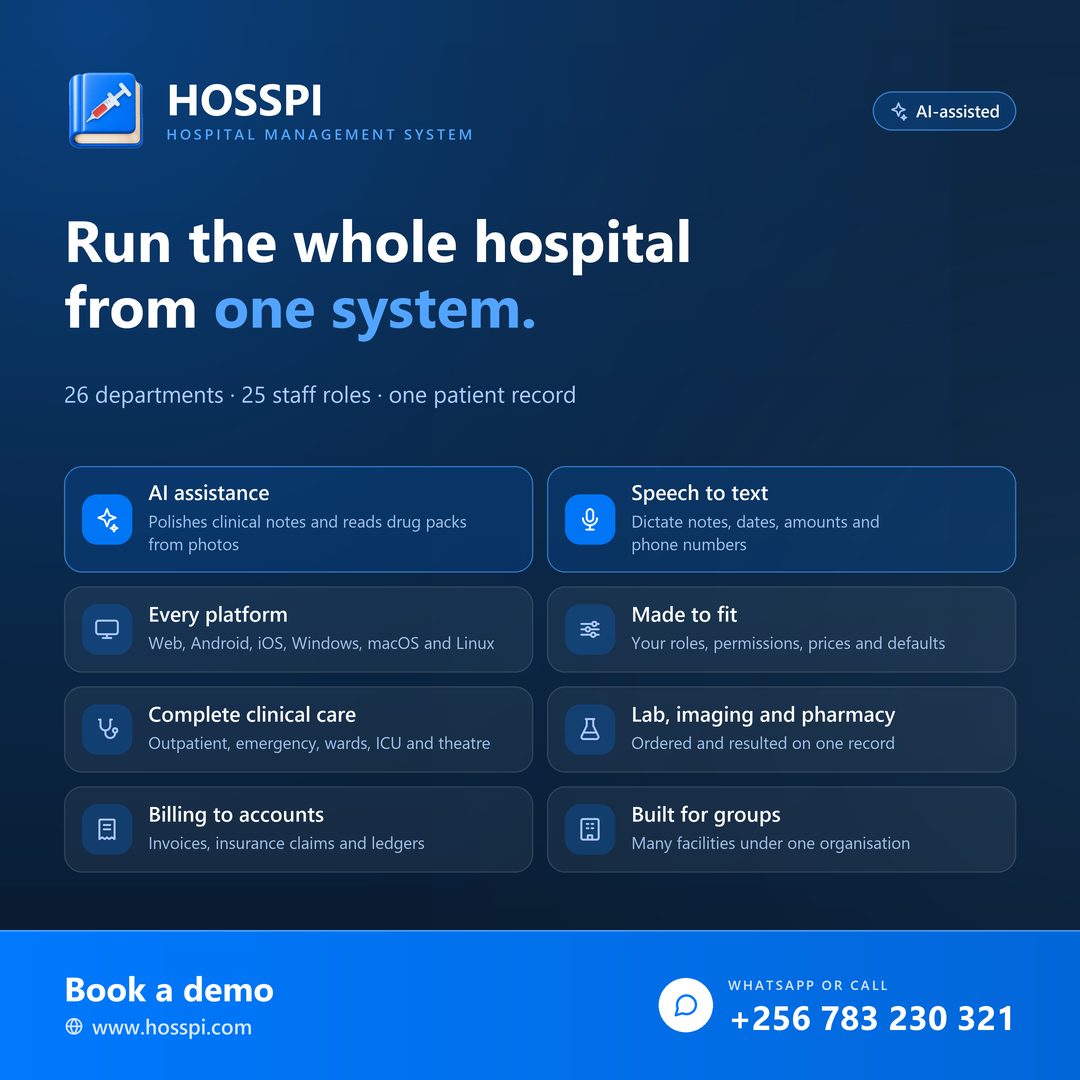
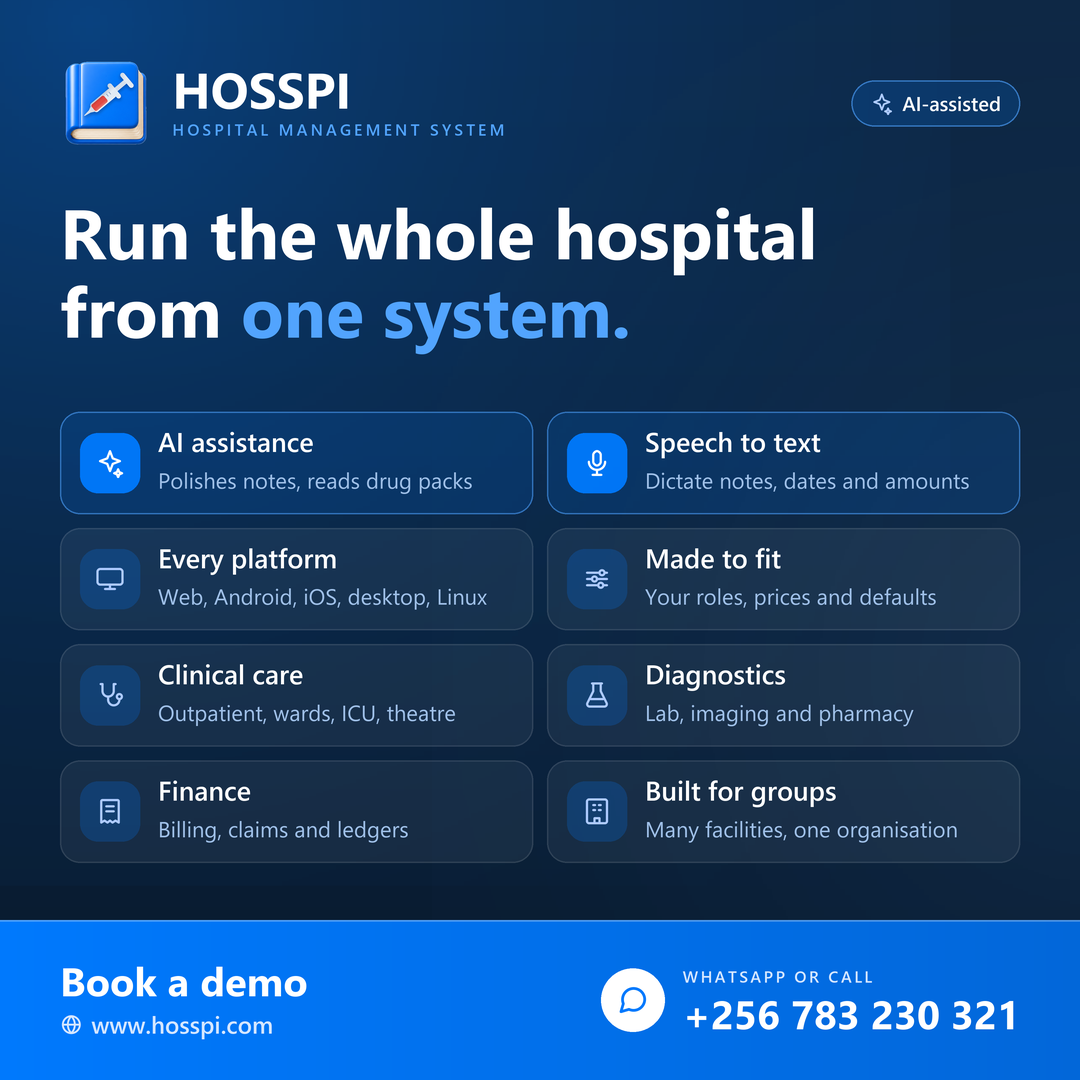
Enhance advert generation script and update assets
- Updated `build-advert.py` to generate adverts for multiple contact numbers, producing both square and portrait PNGs for WhatsApp.
- Improved layout measurements for even spacing and added a minimum gap specification to prevent text overlap.
- Revised feature card descriptions for clarity and conciseness.
- Added new PNG files for the contact number `+256 709 932 926` and updated existing images.
- Enhanced README.md to reflect changes in advert generation and layout specifications.

These updates streamline the advert creation process and improve the overall quality of generated assets.

diff --git a/adverts/build-advert.py b/adverts/build-advert.py
@@ -4,8 +4,9 @@ Build the HOSSPI WhatsApp adverts.
 
     python adverts/build-advert.py
 
-Renders two PNGs from one design: a 1080x1080 square for chats, groups and
-broadcast lists, and a 1080x1920 portrait for WhatsApp Status and stories.
+Renders one design at two sizes - a 1080x1080 square for chats, groups and
+broadcast lists, and a 1080x1920 portrait for WhatsApp Status and stories -
+once for every contact number in PHONES.
 
 The advert reads the product rather than restating it. The palette is the
 website's theme, the logo is website/public/logos/icon-512.png, and the icons
@@ -18,10 +19,11 @@ Type is set in Segoe UI with Pillow; the SVG icons are rasterised by PyMuPDF.
 The canvas is drawn at SUPERSAMPLE times the final size and scaled down, which
 anti-aliases the shapes as well as the type.
 
-Layout is measured, never guessed. Every block reports its height from the real
-font metrics, fixed gaps separate the blocks, and whatever height is left over
-is shared between those gaps. No text is placed at a hand-tuned baseline offset,
-which is how labels used to end up sitting on the edges of their tiles.
+Layout is measured, never guessed, and evenly spaced. Every block reports its
+height from the real font metrics, and the height left over becomes a single
+gap: above the header, between every section and above the call-to-action bar.
+No text is placed at a hand-tuned offset, which is how labels used to end up
+sitting on the edges of their tiles.
 
 Needs Pillow and PyMuPDF:  python -m pip install pillow pymupdf
 """
@@ -77,17 +79,18 @@ HEADLINE = (
     (("Run the whole hospital", False),),
     (("from ", False), ("one system.", True)),
 )
-SUBLINE = "26 departments · 25 staff roles · one patient record"
 
+# Short titles and one-line details: at phone-readable sizes the square has
+# room for about 34 characters of detail per card.
 FEATURES = (
-    ("sparkle", "AI assistance", "Polishes clinical notes and reads drug packs from photos"),
-    ("mic", "Speech to text", "Dictate notes, dates, amounts and phone numbers"),
-    ("monitor", "Every platform", "Web, Android, iOS, Windows, macOS and Linux"),
-    ("settings", "Made to fit", "Your roles, permissions, prices and defaults"),
-    ("stethoscope", "Complete clinical care", "Outpatient, emergency, wards, ICU and theatre"),
-    ("flask", "Lab, imaging and pharmacy", "Ordered and resulted on one record"),
-    ("receipt", "Billing to accounts", "Invoices, insurance claims and ledgers"),
-    ("building", "Built for groups", "Many facilities under one organisation"),
+    ("sparkle", "AI assistance", "Polishes notes, reads drug packs"),
+    ("mic", "Speech to text", "Dictate notes, dates and amounts"),
+    ("monitor", "Every platform", "Web, Android, iOS, desktop, Linux"),
+    ("settings", "Made to fit", "Your roles, prices and defaults"),
+    ("stethoscope", "Clinical care", "Outpatient, wards, ICU, theatre"),
+    ("flask", "Diagnostics", "Lab, imaging and pharmacy"),
+    ("receipt", "Finance", "Billing, claims and ledgers"),
+    ("building", "Built for groups", "Many facilities, one organisation"),
 )
 HIGHLIGHTED = {"sparkle", "mic"}
 
@@ -103,13 +106,14 @@ PLATFORMS = (
 DEPARTMENTS_HEADING = "26 DEPARTMENTS, INCLUDING"
 DEPARTMENTS = (
     "Reception", "Emergency", "Outpatient", "Wards", "ICU", "Theatre",
-    "Nursing", "Laboratory", "Radiology", "Pharmacy", "Physiotherapy",
-    "Billing", "Insurance", "Accounts", "Human resources", "Mortuary",
+    "Laboratory", "Radiology", "Pharmacy", "Billing", "Insurance", "Mortuary",
 )
 
 CTA = "Book a demo"
 SITE = "www.hosspi.com"
-PHONE = "+256 783 230 321"
+# One square and one portrait per number. The first keeps the plain file names;
+# the rest add the number in local form, e.g. hosspi-whatsapp-advert-0709932926.png.
+PHONES = ("+256 783 230 321", "+256 709 932 926")
 PHONE_NOTE = "WHATSAPP OR CALL"
 
 # Glyphs the website's set does not have yet, drawn on the same 24px grid with
@@ -134,7 +138,8 @@ class Spec:
     width: int
     height: int
     margin: float
-    top: float
+    # the build fails rather than set sections closer together than this
+    min_gap: float
     # brand lockup
     logo: float
     name: float
@@ -143,7 +148,6 @@ class Spec:
     # headline
     headline: float
     leading: float
-    subline: float
     # feature cards
     card_title: float
     card_detail: float
@@ -158,8 +162,6 @@ class Spec:
     site: float
     phone: float
     phone_note: float
-    # minimum space after each block, in drawing order
-    gaps: "tuple[float, ...]"
     # portrait-only sections
     platforms: bool = False
     departments: bool = False
@@ -175,28 +177,26 @@ class Spec:
 
 SQUARE = Spec(
     file="hosspi-whatsapp-advert.png", width=1080, height=1080,
-    margin=64, top=56,
-    logo=84, name=44, eyebrow=14.5, badge=17,
-    headline=58, leading=1.13, subline=23,
-    card_title=21, card_detail=16.5, card_pad=18, card_badge=50, card_icon=26,
-    card_gap=14, radius=18,
-    bar=150, cta=34, site=21, phone=34, phone_note=13.5,
-    gaps=(40, 18, 32, 32),
+    margin=60, min_gap=30,
+    logo=92, name=50, eyebrow=16, badge=20,
+    headline=70, leading=1.12,
+    card_title=27, card_detail=22, card_pad=20, card_badge=60, card_icon=30,
+    card_gap=14, radius=20,
+    bar=160, cta=40, site=24, phone=40, phone_note=16,
 )
 
 PORTRAIT = Spec(
     file="hosspi-whatsapp-status.png", width=1080, height=1920,
-    margin=76, top=92,
-    logo=104, name=54, eyebrow=17, badge=20,
-    headline=74, leading=1.12, subline=29,
-    card_title=25, card_detail=19.5, card_pad=24, card_badge=62, card_icon=32,
-    card_gap=18, radius=22,
-    bar=210, cta=44, site=26, phone=42, phone_note=16,
-    gaps=(68, 26, 54, 54, 50, 56),
+    margin=64, min_gap=36,
+    logo=116, name=62, eyebrow=19, badge=23,
+    headline=82, leading=1.1,
+    card_title=31, card_detail=25, card_pad=26, card_badge=72, card_icon=36,
+    card_gap=18, radius=24,
+    bar=240, cta=50, site=30, phone=48, phone_note=19,
     platforms=True, departments=True,
-    section=17, section_gap=18,
-    platform_icon=42, platform_name=22, platform_detail=17, platform_pad=26,
-    chip=19, chip_gap=12,
+    section=20, section_gap=22,
+    platform_icon=50, platform_name=26, platform_detail=20, platform_pad=30,
+    chip=23, chip_gap=14,
 )
 
 
@@ -382,8 +382,8 @@ class Canvas:
         top = self.px(y0)
         size = (self.image.width, self.px(y1) - top)
         ramp = Image.linear_gradient("L").transpose(Image.Transpose.ROTATE_90).resize(size, Image.BILINEAR)
-        strip = Image.composite(Image.new("RGBA", size, rgba(right)),
-                                Image.new("RGBA", size, rgba(left)), ramp)
+        strip = Image.composite(Image.new("RGB", size, rgba(right)[:3]),
+                                Image.new("RGB", size, rgba(left)[:3]), ramp)
         self.image.paste(strip, (0, top))
 
     def rounded(self, x0: float, y0: float, x1: float, y1: float, radius: float,
@@ -476,20 +476,6 @@ def headline_block(c: Canvas, spec: Spec, x0: float, x1: float):
                 x += measure(text, "bold", size)
 
     return "headline", height, draw
-
-
-def subline_block(c: Canvas, spec: Spec, x0: float, x1: float):
-    size = spec.subline
-    lines = wrap(SUBLINE, "regular", size, x1 - x0)
-    cap, desc = ascent("regular", size), descent("regular", size)
-    step = size * 1.35
-    height = cap + step * (len(lines) - 1) + desc
-
-    def draw(y: float) -> None:
-        for index, line in enumerate(lines):
-            c.text(x0, y + cap + index * step, line, "regular", size, rgba(AZURE_SOFT))
-
-    return "subline", height, draw
 
 
 def features_block(c: Canvas, spec: Spec, x0: float, x1: float):
@@ -643,7 +629,7 @@ def paint_background(c: Canvas, spec: Spec) -> None:
     c.glow(spec.width * 1.02, spec.height * 0.62, spec.width * 0.62, PRIMARY_LIGHT, 0.10)
 
 
-def paint_bar(c: Canvas, spec: Spec) -> None:
+def paint_bar(c: Canvas, spec: Spec, phone: str) -> None:
     """Call to action across the foot: the ask on the left, the number on the right."""
     top = spec.height - spec.bar
     x0, x1 = spec.margin, spec.width - spec.margin
@@ -669,7 +655,7 @@ def paint_bar(c: Canvas, spec: Spec) -> None:
     phone_gap = spec.phone * 0.42
     right_stack = note_cap + phone_gap + phone_cap
     right_top = top + (spec.bar - right_stack) / 2
-    text_w = max(measure(PHONE, "bold", spec.phone),
+    text_w = max(measure(phone, "bold", spec.phone),
                  measure(PHONE_NOTE, "semibold", spec.phone_note, note_tracking))
     text_x = x1 - text_w
     circle = right_stack * 1.08
@@ -684,13 +670,13 @@ def paint_bar(c: Canvas, spec: Spec) -> None:
            glyph, PRIMARY, 2.1)
     c.text(text_x, right_top + note_cap, PHONE_NOTE, "semibold", spec.phone_note,
            rgba(BAR_TEXT), tracking=note_tracking)
-    c.text(text_x, right_top + note_cap + phone_gap + phone_cap, PHONE, "bold",
+    c.text(text_x, right_top + note_cap + phone_gap + phone_cap, phone, "bold",
            spec.phone, rgba(WHITE))
 
 
 # --- compose -----------------------------------------------------------------
 
-def compose(spec: Spec, logo: Image.Image) -> Image.Image:
+def compose(spec: Spec, logo: Image.Image, phone: str) -> Image.Image:
     c = Canvas(spec.width, spec.height)
     paint_background(c, spec)
 
@@ -698,34 +684,41 @@ def compose(spec: Spec, logo: Image.Image) -> Image.Image:
     blocks = [
         header_block(c, spec, x0, x1, logo),
         headline_block(c, spec, x0, x1),
-        subline_block(c, spec, x0, x1),
         features_block(c, spec, x0, x1),
     ]
     if spec.platforms:
         blocks.append(platforms_block(c, spec, x0, x1))
     if spec.departments:
         blocks.append(departments_block(c, spec, x0, x1))
-    if len(spec.gaps) != len(blocks):
-        raise SystemExit(f"{spec.file}: {len(blocks)} blocks but {len(spec.gaps)} gaps")
 
+    # One gap for the whole canvas - above the header, between sections and
+    # above the bar - so the spacing reads as a single rhythm.
     floor = spec.height - spec.bar
-    used = spec.top + sum(height for _, height, _ in blocks) + sum(spec.gaps)
-    slack = floor - used
-    if slack < 0:
+    content = sum(height for _, height, _ in blocks)
+    gap = (floor - content) / (len(blocks) + 1)
+    if gap < spec.min_gap:
         sizes = ", ".join(f"{name} {height:.0f}" for name, height, _ in blocks)
-        raise SystemExit(f"{spec.file}: content overflows the call to action bar by "
-                         f"{-slack:.0f}px ({sizes}) - shorten the copy or shrink the spec")
+        raise SystemExit(f"{spec.file}: sections would sit {gap:.0f}px apart, under the "
+                         f"{spec.min_gap:.0f}px minimum ({sizes}) - shorten the copy or "
+                         "shrink the spec")
 
-    # Leftover height goes to the gaps (half a share above the header), so a
-    # tall canvas breathes instead of leaving a dead band above the bar.
-    share = slack / (len(blocks) + 0.5)
-    y = spec.top + share / 2
-    for (_, height, draw), gap in zip(blocks, spec.gaps):
+    y = gap
+    for _, height, draw in blocks:
         draw(y)
-        y += height + gap + share
+        y += height + gap
 
-    paint_bar(c, spec)
-    return c.image.resize((spec.width, spec.height), Image.LANCZOS).convert("RGB")
+    paint_bar(c, spec, phone)
+    return c.image.resize((spec.width, spec.height), Image.LANCZOS)
+
+
+def output_name(file: str, phone: str, index: int) -> str:
+    """The first number keeps the plain name; the others add it in local form."""
+    if index == 0:
+        return file
+    digits = re.sub(r"\D", "", phone)
+    local = "0" + digits[3:] if digits.startswith("256") else digits
+    stem, _, extension = file.rpartition(".")
+    return f"{stem}-{local}.{extension}"
 
 
 def main() -> None:
@@ -733,10 +726,11 @@ def main() -> None:
     load_icons(sorted(names | {"sparkle", "globe", "message"}))
     logo = Image.open(LOGO).convert("RGBA")
 
-    for spec in (SQUARE, PORTRAIT):
-        out = HERE / spec.file
-        compose(spec, logo).save(out, optimize=True)
-        print(f"{spec.file}  {spec.width}x{spec.height}  {out.stat().st_size / 1024:.0f} KB")
+    for index, phone in enumerate(PHONES):
+        for spec in (SQUARE, PORTRAIT):
+            out = HERE / output_name(spec.file, phone, index)
+            compose(spec, logo, phone).save(out, optimize=True)
+            print(f"{out.name}  {spec.width}x{spec.height}  {out.stat().st_size / 1024:.0f} KB")
 
 
 if __name__ == "__main__":

diff --git a/adverts/README.md b/adverts/README.md
@@ -7,6 +7,10 @@ Shareable HOSSPI artwork. Generated, not hand-drawn: edit the script, rebuild.
 | `hosspi-whatsapp-advert.png` | 1080x1080 | chats, groups, broadcast lists |
 | `hosspi-whatsapp-status.png` | 1080x1920 | WhatsApp Status, Instagram/Facebook stories |
 
+The pair is built once for every contact number in `PHONES`. The plain names
+carry +256 783 230 321; the copies suffixed `-0709932926` carry
++256 709 932 926.
+
 ```bash
 python adverts/build-advert.py
 ```
@@ -18,11 +22,10 @@ folder holding `segoeui.ttf`, `seguisb.ttf` and `segoeuib.ttf`.
 ## What it says
 
 Both canvases carry the logo and name side by side, the headline, and eight
-feature cards: AI assistance, speech to text, every platform, fitting the
-hospital's own roles and prices, clinical care, diagnostics and pharmacy,
-billing to accounts, and multi-facility groups. The portrait adds a platform
-row and a list of departments. Both end on the demo call to action, the
-WhatsApp number and the website.
+feature cards: AI assistance, speech to text, every platform, customisation,
+clinical care, diagnostics, finance and multi-facility groups. The portrait
+adds a platform row and a list of departments. Both end on the demo call to
+action, the WhatsApp number and the website.
 
 Only capabilities users can reach in the current release belong here - the
 same rule as `website/src/lib/product.js`. Check a claim against the app before
@@ -37,7 +40,12 @@ palette is the website's tokens, the icons are read out of
 set does not have yet), and the logo is `website/public/logos/icon-512.png`, so
 the advert cannot drift from the product.
 
-Layout is measured: every block takes its height from the real font metrics,
-fixed gaps separate the blocks, and leftover height is shared between the gaps.
-If copy grows past the canvas, the build stops and prints each block's height
-rather than drawing over the call-to-action bar.
+Type is sized for a phone, where WhatsApp shows the image at a fraction of its
+pixel width. Keep card details to about 34 characters so they stay on one line
+in the square.
+
+Layout is measured and evenly spaced: every block takes its height from the
+real font metrics, and the height left over becomes one gap used above the
+header, between every section and above the call-to-action bar. If copy grows
+until that gap falls below the spec's `min_gap`, the build stops and prints
+each block's height instead of cramming the layout.
